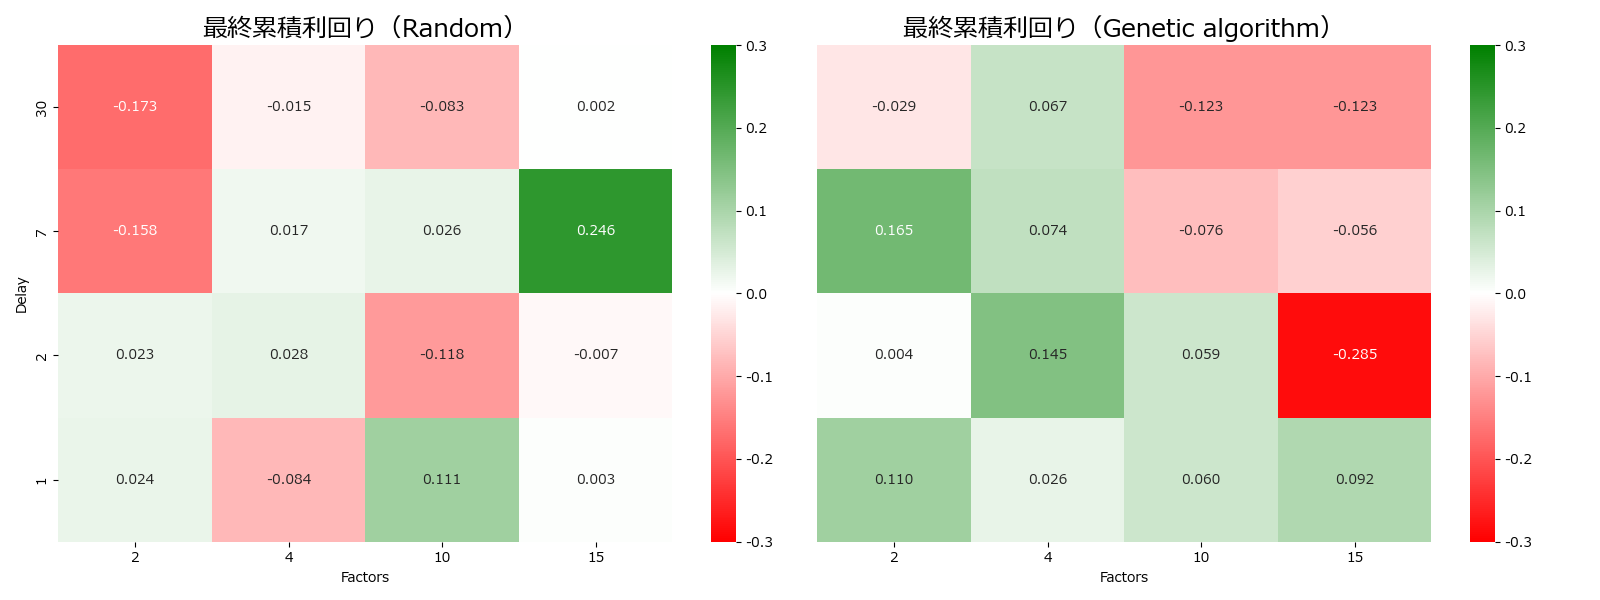
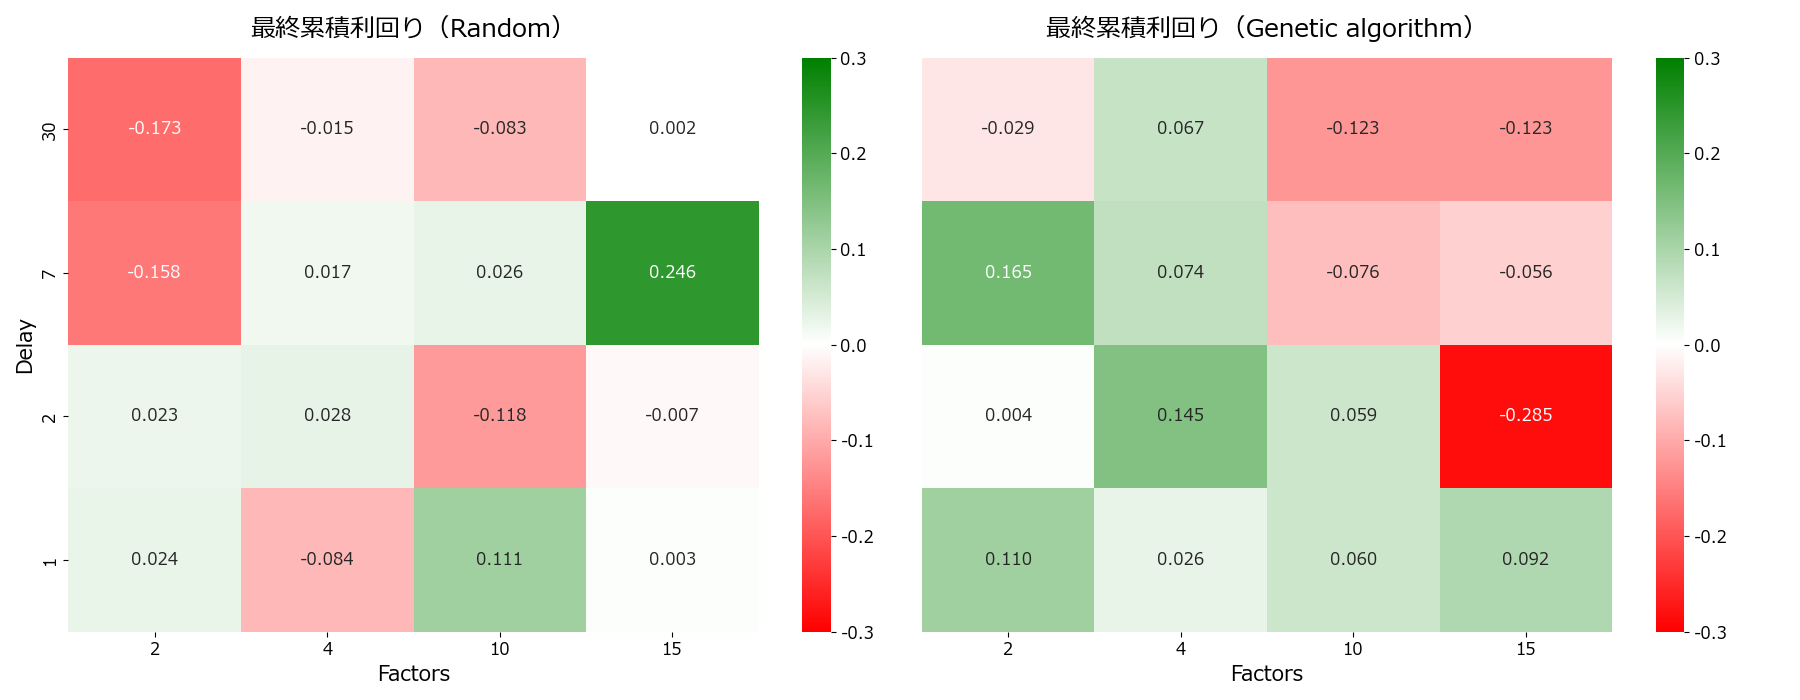
卒研資料3

diff --git a/original_work/main/analysis_pkl.py b/original_work/main/analysis_pkl.py
@@ -1,11 +1,10 @@
 """
-Trader-Company法 卒業研究分析スクリプト (Final Version 9)
+Trader-Company法 卒業研究分析スクリプト (Final Version 10)
 
 修正点:
-- 軸ラベル(xlabel, ylabel)と目盛り(ticks)のフォントサイズを拡大調整
-- BASE_PKL_DIR, CACHE_FILE は指定の設定を維持
-- (A)最終累積利回りをRandom/Geneticの比較形式(2枚並び・赤白緑)で出力
-- (D)のタイトル変更と全フォントサイズの最適化
+- (A)最終累積利回りを「左右結合版」に戻して出力
+- (A)の「独立画像版」のコードはコメントアウトして保存
+- その他、フォントサイズや配色はv9の状態を維持
 """
 
 import sys
@@ -248,7 +247,7 @@ def show_average_table(df, market_stats):
     df_table.to_csv("average_comparison_table.csv")
 
 def plot_heatmaps(df):
-    """ヒートマップを出力 (フォントサイズ調整・(A)個別出力版)"""
+    """ヒートマップを出力"""
     print("\n--- ヒートマップを作成中 ---")
     
     # カスタムカラーマップ作成: 赤(低) -> 白(中) -> 緑(高)
@@ -264,7 +263,7 @@ def plot_heatmaps(df):
         'vmax': HEATMAP_VMAX,
         'cmap': custom_cmap,
         'annot_kws': {'size': TICK_FONT_SIZE},     # ヒートマップ内の数字サイズ
-        'cbar_kws': {'label': ''}                  # カラーバーラベル(必要なら設定)
+        'cbar_kws': {'label': ''}                  # カラーバーラベル
     }
     
     # (D) 用のデータ計算: Genetic乖離 - Random乖離
@@ -284,36 +283,34 @@ def plot_heatmaps(df):
         ax.tick_params(axis='both', which='major', labelsize=TICK_FONT_SIZE)
         
         # カラーバーのフォントサイズ調整 (Seabornの仕様上、作成後にアクセス)
-        cbar = ax.collections[0].colorbar
-        cbar.ax.tick_params(labelsize=TICK_FONT_SIZE)
+        if len(ax.collections) > 0:
+            cbar = ax.collections[0].colorbar
+            cbar.ax.tick_params(labelsize=TICK_FONT_SIZE)
 
-    '''
-    # --- 1. 画像(A): 最終累積利回り (Random & Genetic) ---
-    fig_a, (ax1, ax2) = plt.subplots(1, 2, figsize=(16, 6))
+    # =========================================================
+    # (A) 最終累積利回り (Random & Genetic) - 結合画像
+    # =========================================================
+    fig_a, (ax1, ax2) = plt.subplots(1, 2, figsize=(18, 7))
     
     # Random
     pivot_cum_rand = df.pivot(index="delay_time_max", columns="num_factors_max", values="cumret_random")
     pivot_cum_rand = pivot_cum_rand.sort_index(ascending=False)
     sns.heatmap(pivot_cum_rand, ax=ax1, **heatmap_kwargs)
-    ax1.set_title("最終累積利回り（Random）", fontsize=TITLE_FONT_SIZE)
-    ax1.set_xlabel("Factors")
-    ax1.set_ylabel("Delay")
+    apply_axis_settings(ax1, "最終累積利回り（Random）", "Factors", "Delay", ylabel_visible=True)
 
     # Genetic
     pivot_cum_gen = df.pivot(index="delay_time_max", columns="num_factors_max", values="cumret_genetic")
     pivot_cum_gen = pivot_cum_gen.sort_index(ascending=False)
     sns.heatmap(pivot_cum_gen, ax=ax2, **heatmap_kwargs)
-    ax2.set_title("最終累積利回り（Genetic algorithm）", fontsize=TITLE_FONT_SIZE)
-    ax2.set_xlabel("Factors")
-    ax2.set_ylabel("")
-    ax2.set_yticks([])
+    apply_axis_settings(ax2, "最終累積利回り（Genetic algorithm）", "Factors", "", ylabel_visible=False)
 
     plt.tight_layout()
     plt.savefig("heatmap_cumret_comparison.png")
     print("画像保存: heatmap_cumret_comparison.png")
     plt.close()
-    '''
 
+    # --- 以下、独立画像用のコード (コメントアウト) ---
+    '''
     # =========================================================
     # (A-1) 最終累積利回り (Random) - 独立画像
     # =========================================================
@@ -343,6 +340,8 @@ def plot_heatmaps(df):
     plt.savefig("heatmap_cumret_genetic.png")
     print("画像保存: heatmap_cumret_genetic.png")
     plt.close()
+    '''
+    # --------------------------------------------------------
 
     # =========================================================
     # (B)&(C) 乖離の比較 (Market最低時) - 連結画像
@@ -350,7 +349,7 @@ def plot_heatmaps(df):
     fig_bc, (ax3, ax4) = plt.subplots(1, 2, figsize=(18, 7))
     
     heatmap_kwargs_bc = heatmap_kwargs.copy()
-    del heatmap_kwargs_bc['cmap'] # デフォルト配色に戻す
+    del heatmap_kwargs_bc['cmap'] # デフォルト配色(Reds/Blues)に戻す
 
     # (B) Random 乖離
     pivot_diff_rand = df.pivot(index="delay_time_max", columns="num_factors_max", values="diff_min_random")
